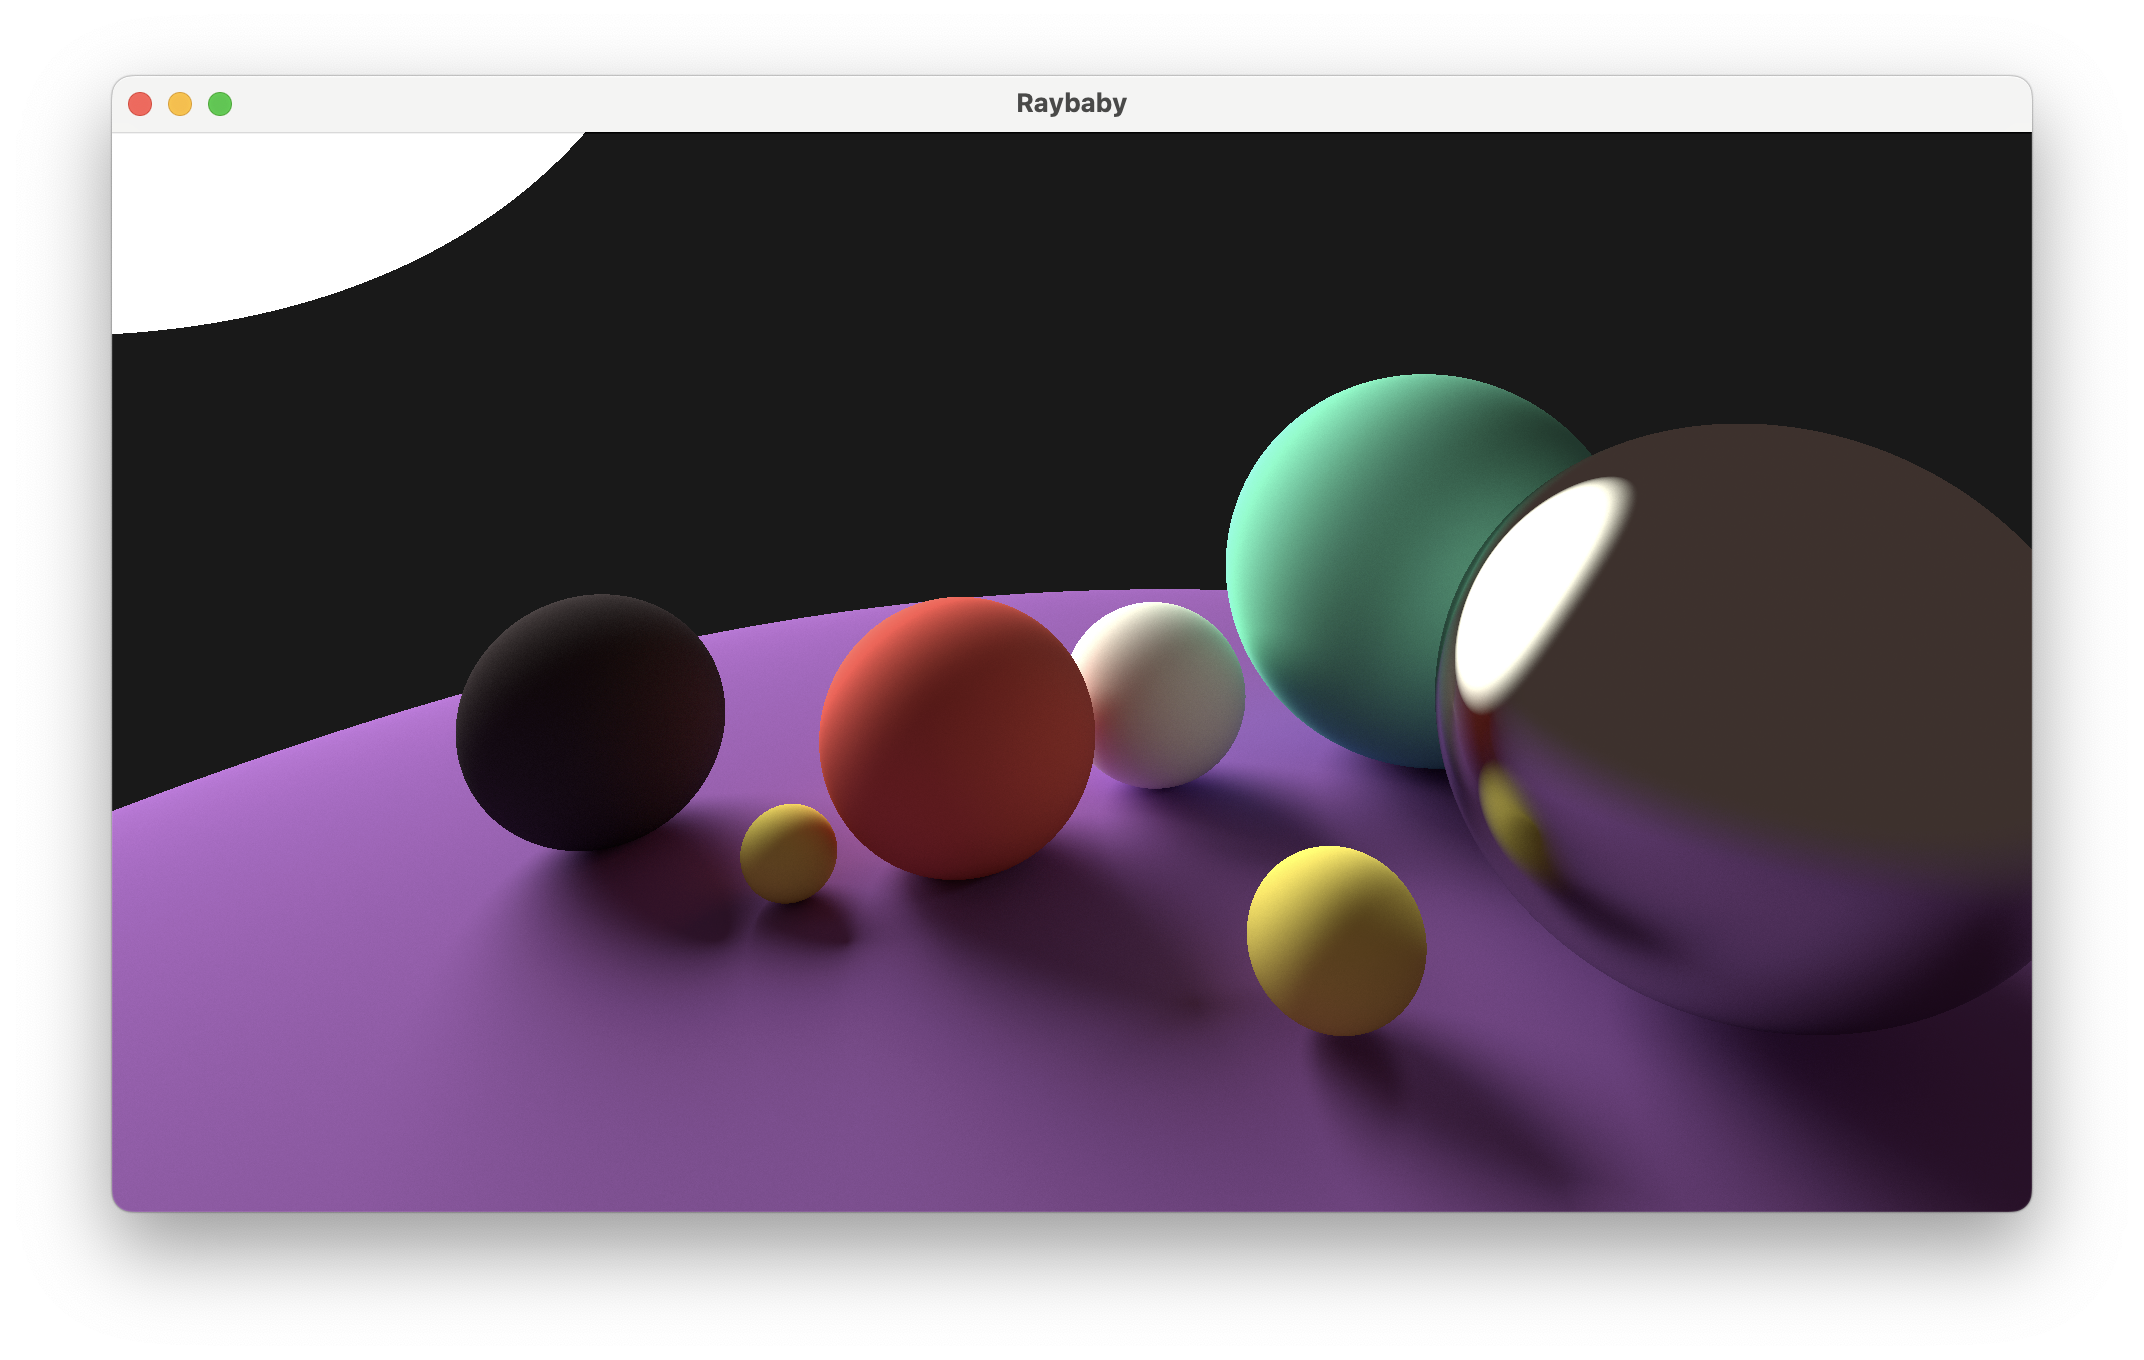
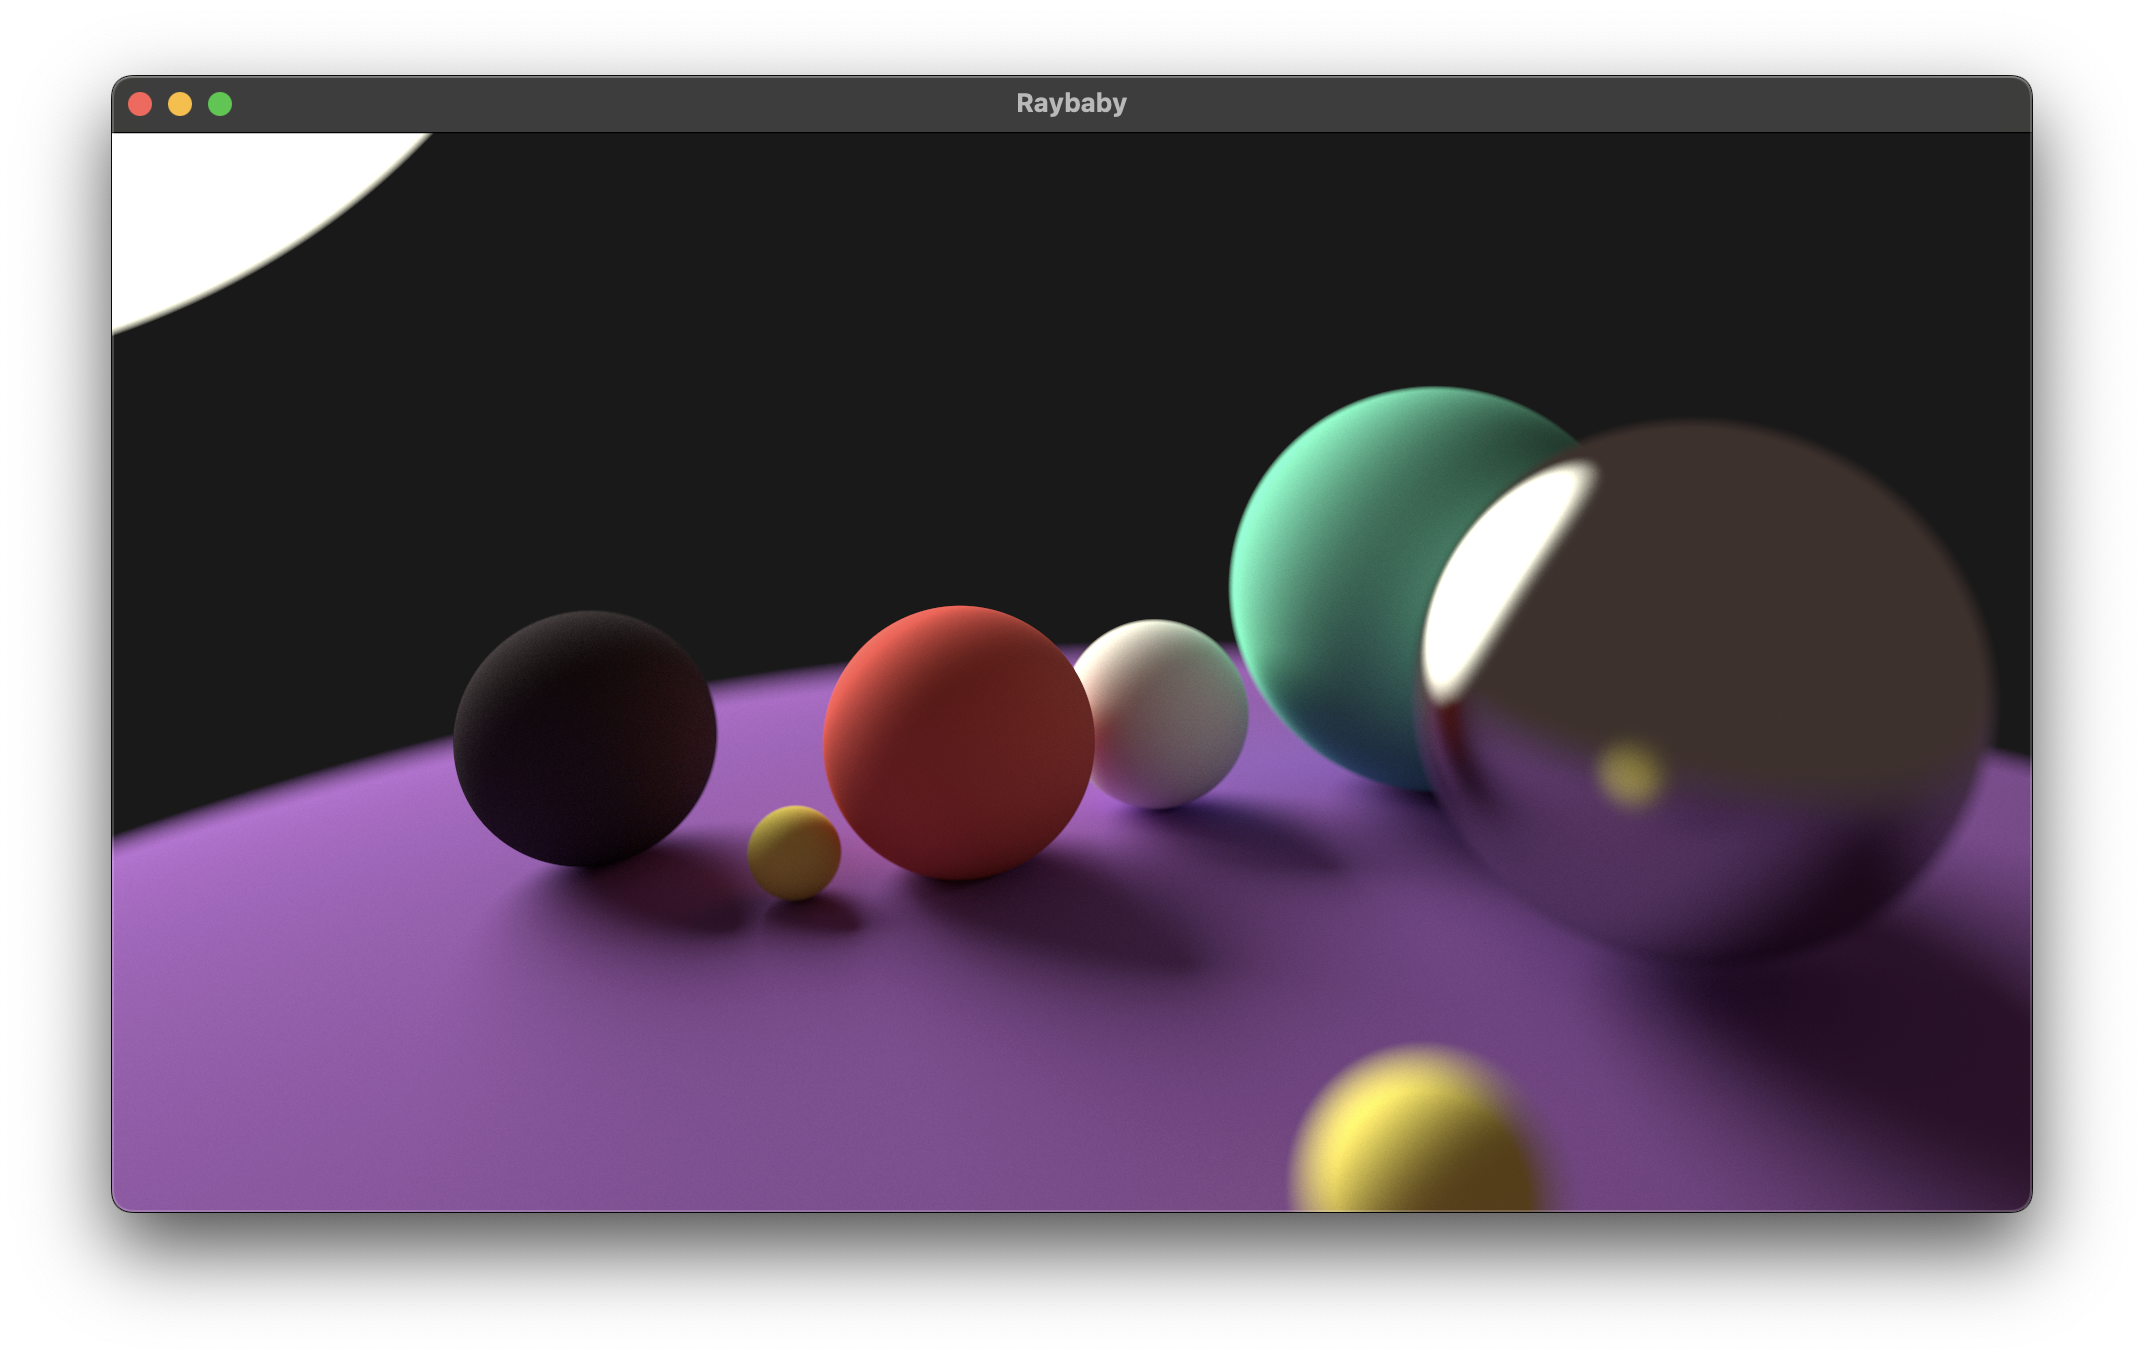
Added focal distance and blurring

diff --git a/src/app.rs b/src/app.rs
@@ -36,6 +36,7 @@ pub struct Parameters {
     pub skybox_color: glam::Vec3,
     pub ambient_lighting_color: glam::Vec3,
     pub ambient_lighting_strength: f32,
+    pub focal_blur_strength: f32,
 }
 
 pub struct State {
@@ -70,9 +71,11 @@ impl State {
         let globals = {
             storage::Globals {
                 camera: match scene.camera.lens {
-                    types::Lens::Perspective { fov } => {
+                    types::Lens::Perspective {
+                        fov,
+                        focal_distance,
+                    } => {
                         let fov = fov.to_radians();
-                        let focal_distance: f32 = 10.0;
                         let aspect_ratio = (size.width as f32) / (size.height as f32);
                         let plane_height = 2.0 * (fov / 2.0).tan() * focal_distance;
                         let plane_width = plane_height * aspect_ratio;
@@ -80,8 +83,10 @@ impl State {
                         let rotation = scene.camera.transform.rotation;
                         let position = scene.camera.transform.position;
 
+                        println!("Focal distance: {}", focal_distance);
+
                         storage::Camera {
-                            focal_plane: glam::f32::vec3(plane_width, plane_height, focal_distance),
+                            focal_view: glam::f32::vec3(plane_width, plane_height, focal_distance),
                             world_space_position: position,
                             local_to_world_matrix: glam::f32::Mat4::from_euler(
                                 glam::EulerRot::XYZ,
@@ -101,6 +106,7 @@ impl State {
                 ambient_lighting_strength: parameters.ambient_lighting_strength,
                 max_ray_bounces: parameters.max_ray_bounces,
                 max_samples_per_pixel: parameters.max_samples_per_pixel,
+                focal_blur_strength: parameters.focal_blur_strength,
             }
         };
 

diff --git a/src/main.rs b/src/main.rs
@@ -26,6 +26,7 @@ async fn run() {
             ambient_lighting_strength,
             max_ray_bounces_per_ray,
             max_samples_per_pixel,
+            focal_blur_strength,
         } => {
             let scene = {
                 let scene = fs::read_to_string(scene.as_path()).expect(&format!(
@@ -44,6 +45,7 @@ async fn run() {
                 skybox_color: skybox_color.into(),
                 ambient_lighting_color: ambient_lighting_color.into(),
                 ambient_lighting_strength,
+                focal_blur_strength,
             };
 
             let event_loop = EventLoop::new();

diff --git a/src/storage.rs b/src/storage.rs
@@ -73,11 +73,12 @@ pub struct Globals {
     pub ambient_lighting_strength: f32,
     pub max_ray_bounces: u32,
     pub max_samples_per_pixel: u32,
+    pub focal_blur_strength: f32,
 }
 
 #[derive(ShaderType)]
 pub struct Camera {
-    pub focal_plane: f32::Vec3,
+    pub focal_view: f32::Vec3,
     pub world_space_position: f32::Vec3,
     pub local_to_world_matrix: f32::Mat4,
     pub near_clip: f32,

diff --git a/src/cli.rs b/src/cli.rs
@@ -34,6 +34,10 @@ pub enum Commands {
         /// The maximum number of rays per pixel per render pass
         #[arg(long, default_value_t = 4)]
         max_samples_per_pixel: u32,
+
+        /// The strength of blur for objects out of focus
+        #[arg(long, default_value_t = 200.0)]
+        focal_blur_strength: f32,
     },
 }
 

diff --git a/src/types.rs b/src/types.rs
@@ -16,7 +16,7 @@ pub struct Camera {
 
 #[derive(Debug, Deserialize)]
 pub enum Lens {
-    Perspective { fov: f32 },
+    Perspective { fov: f32, focal_distance: f32 },
 }
 
 #[derive(Debug, Deserialize)]
